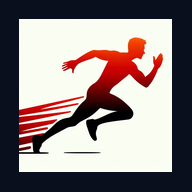
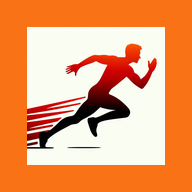
Feat: icone aggiornate con palette arancio
- icon-maskable: sfondo arancio #f97316 (Android home screen)
- icon-standard: sfondo bianco/neutro (App Store, notifiche)
- manifest: theme_color #f97316, background_color #0e0a06
- SW v6.33

diff --git a/sw.js b/sw.js
@@ -1,4 +1,4 @@
-const APP_VERSION = 'v6.32';
+const APP_VERSION = 'v6.33';
 const SHELL_CACHE   = `coachos-shell-${APP_VERSION}`;
 const RUNTIME_CACHE = `coachos-runtime-${APP_VERSION}`;
 
